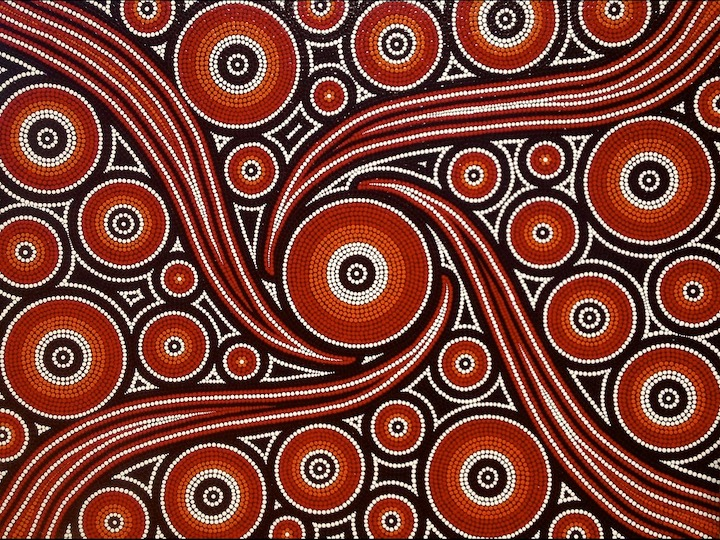
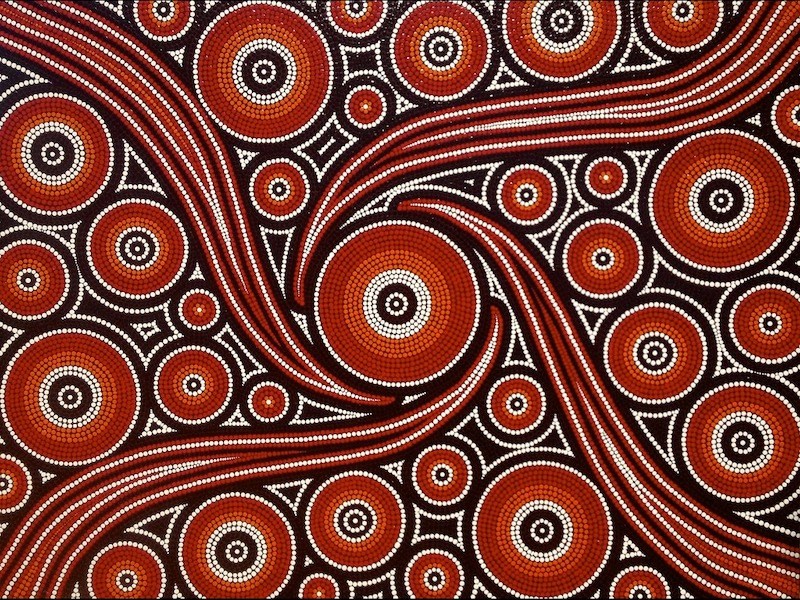
Added image as placeholder for carousel. Entered unedited Bootstrap for carousel. Added destroy feature for artwork for logged in owners of the listing. Fixed artist name link on art listing. Provided buy now link validation for logged in users. Removed redundant top nav partial

diff --git a/app/assets/stylesheets/application.scss b/app/assets/stylesheets/application.scss
@@ -32,6 +32,14 @@ td {
     padding-right: 1rem;
 }
 
-.home-image {
-    padding: 2rem;
+#username {
+    font-size: 1.5rem;
+}
+
+.welcome {
+    text-align: center;
+}
+
+.tdc-name {
+    color: #9f2325;
 }

diff --git a/config/routes.rb b/config/routes.rb
@@ -12,10 +12,12 @@ Rails.application.routes.draw do
   #Create new artwork item
   get "/items/new", to: "items#new", as: "new_item"
   post "/items", to: "items#create"
-  #Show all Art
+  #Show all art
   get "/items/all", to: "items#index", as: "all_items"
   #Show individual piece of art
   get "/items/:id", to: "items#show", as: "item"
+  # Remove item listing
+  delete "/items/:id", to: "items#destroy"
 
   #New Artist
   get "/artists/new", to: "artists#new", as: "new_artist"

diff --git a/app/controllers/items_controller.rb b/app/controllers/items_controller.rb
@@ -25,6 +25,12 @@ class ItemsController < ApplicationController
         end
     end
 
+    def destroy
+        Item.destroy(params[:id])
+        flash[:notice] = "Artwork was successfully removed from your Gallery."
+        redirect_to dashboard_path
+    end
+
     private 
     def item_params
         params.require(:item).permit(:name,:category, :description, :price, :item_image)
